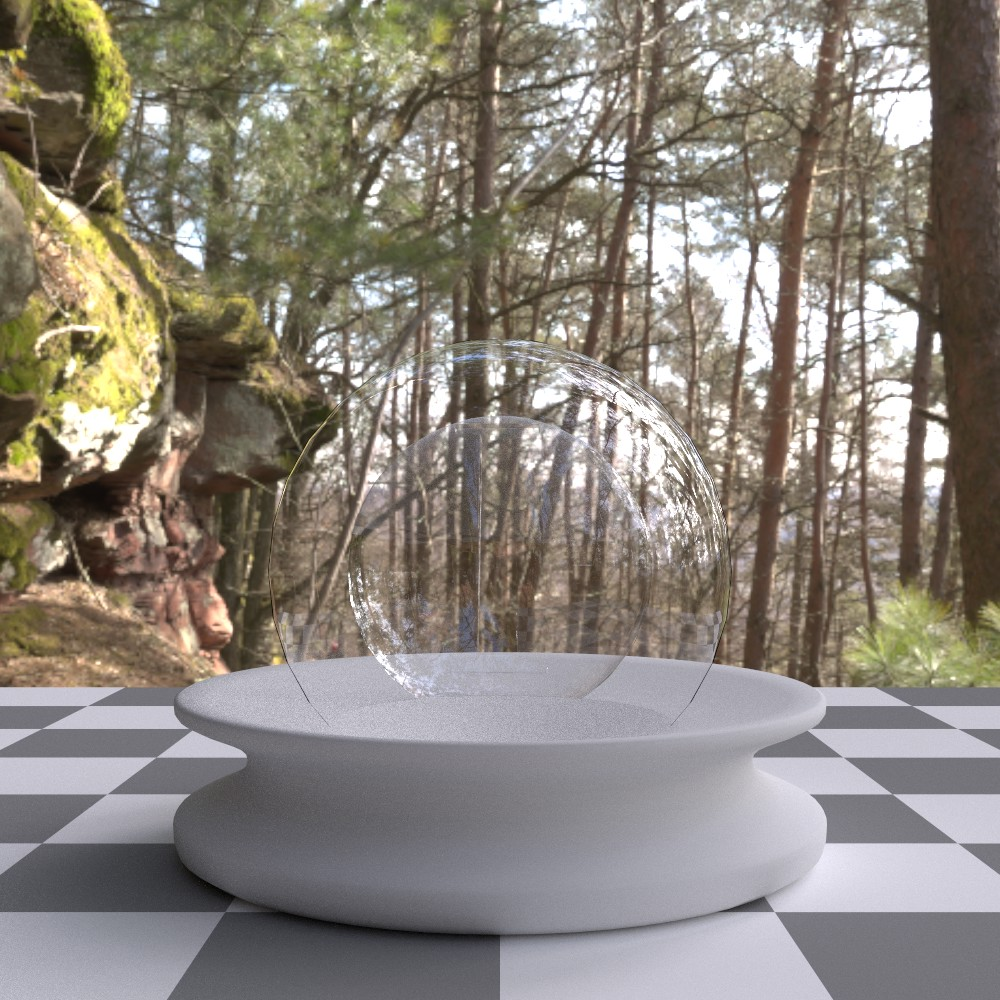
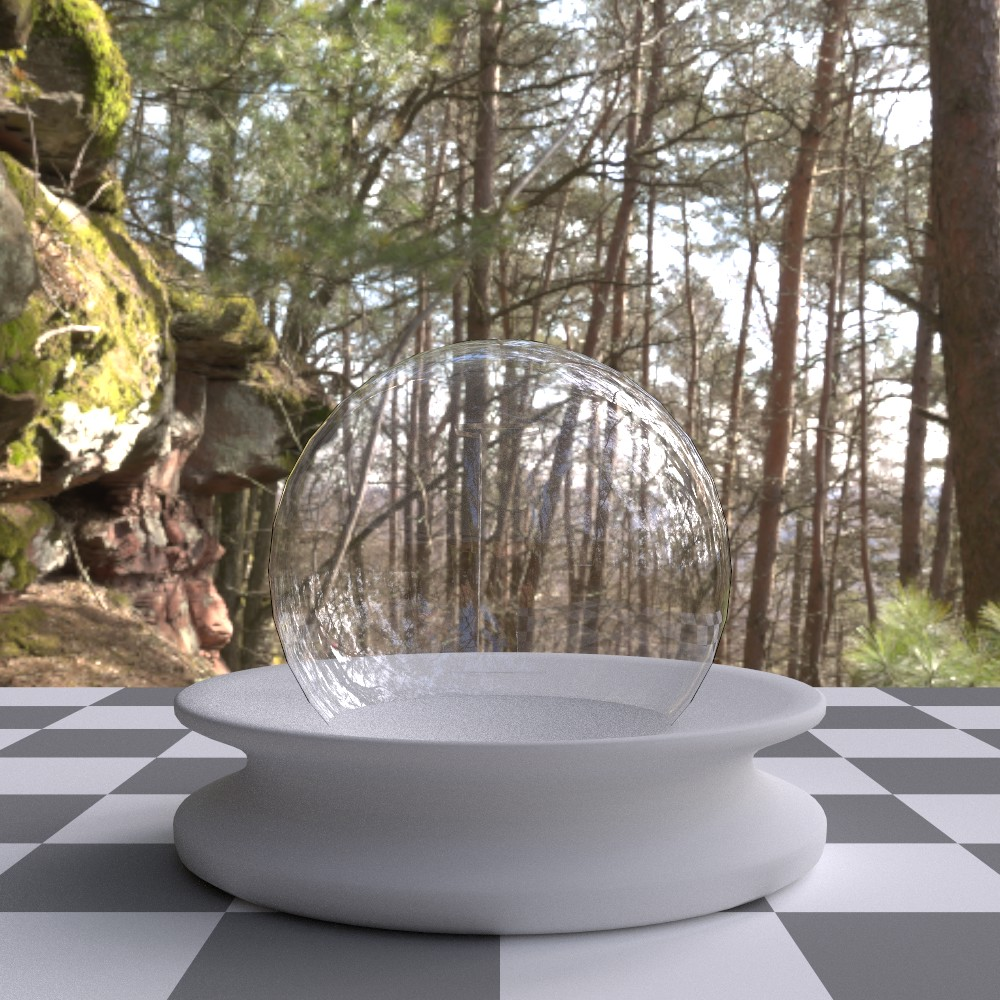
Changed thin dielectric Matched "office" scene with Radiance for benchmarks

diff --git a/docs/src/scene/bsdfs.rst b/docs/src/scene/bsdfs.rst
@@ -97,7 +97,7 @@ Smooth dielectric (:monosp:`dielectric`)
  * - thin
    - |bool|
    - false
-   - Thin
+   - True if the glass should be treated as a thin interface. :monosp:`int_ior` will be always the inside of the thin surface, regardless of the direction of the surface normal.
 
 
 .. subfigstart::
